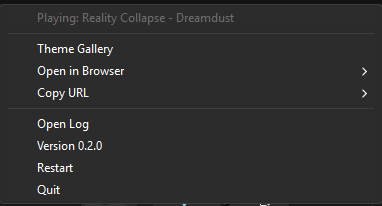
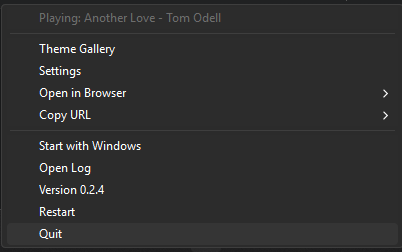
Update the README for the settings page, Start with Windows and tag filters

diff --git a/README.md b/README.md
@@ -12,10 +12,11 @@ serves the overlay as a local web page, and ships with themes, an audio equalize
 ## Features
 
 - Song title, artist, album, cover art, and a progress bar with optional elapsed / total time
-- Works with the Apple Music app for Windows and the Spotify desktop app, and follows whichever one is playing
+- Works with the Apple Music app for Windows and the Spotify desktop app, and follows whichever one is playing. Other media apps can be added in Settings
 - Live equalizer and music-reactive glows, driven by the player's audio
 - Popup mode: appears when the song changes, then fades out
-- A Theme Gallery to preview every theme, with search, filters, favorites and test backgrounds. Click a theme to see it bigger, with the exact OBS size
+- A Theme Gallery to preview every theme, with search, folder and feature filters, favorites and test backgrounds. Click a theme to see it bigger, with the exact OBS size
+- A Settings page for the equalizer, players, network and starting with Windows, with no files to edit
 - Themes are plain CSS files. Examples are included, and you can make your own ([how to make a theme](THEMES.md))
 - Runs quietly in the system tray, with a status line showing the current song
 - Written in Rust. Uses a few MB of memory and almost no CPU
@@ -42,13 +43,15 @@ To try another theme, change the address, for example, `http://localhost:5000/ov
 
 Windows may warn you ("Windows protected your PC") because the app is not code-signed. Choose **More info > Run anyway**. To avoid the warning, right-click the zip before unzipping it, choose **Properties**, tick **Unblock**, and click **OK**. The full source is in this repository. 
 
-To start the app with Windows, press Win+R, type `shell:startup`, and put a shortcut to `nowplaying.exe` in the folder that opens.
+To start the app with Windows, turn on **Start with Windows** in the tray menu or in Settings.
 
 ### Updating
 
 Quit the app from the tray, then unzip the new release to the same place as before, so its `NowPlaying` folder lands on top of your old one. Choose **Replace** when Windows asks. Your `config.toml`, `favorites.json` and custom themes are not in the zip, so they stay as they are.
 
 If you unzip into a new folder instead, copy `config.toml`, `favorites.json` and `static\themes\custom` over from the old one. If you forget `favorites.json`, open the Theme Gallery once and it copies the stars saved in your browser back into the app.
+
+If you use **Start with Windows** and move the app to a new folder, open Settings and turn it on again so it points to the new location.
 
 ### Spotify
 
@@ -58,7 +61,7 @@ In Spotify, open Settings and turn on **Show desktop overlay when using media ke
 
 Open `http://localhost:5000/gallery.html`, or left-click the tray icon, to see every theme running.
 
-- Search and filter themes by group
+- Search themes, filter by folder, and use the **Includes** row to find themes with specific features. Picking several shows only themes that have all of them
 - Click **Open** to open a theme, or **Copy URL** to paste it into OBS
 - Click a preview to enlarge it. The enlarged view shows the theme's OBS browser source size, its URL, and a scale control (1x, 1.5x, 2x) that updates both. Popup themes get a **Replay popup** button
 - Each card shows the theme's OBS size (width x height), including any room it needs for glows
@@ -71,6 +74,19 @@ Your favorites also appear in the tray menu, under **Open in Browser** and **Cop
 
 <img src="docs/enlarged-view.png" alt="Enlarged View" width="800">
 
+## Settings
+
+Right-click the tray icon and choose **Settings**, or open `http://localhost:5000/settings.html`. Changes are saved to `config.toml` as you make them, and your comments in that file are kept.
+
+- **Equalizer:** adjust the bars while watching them move to your music
+- **Players:** add or remove players. **Detected Right Now** lists the media apps Windows can see, each with an **Add** button
+- **Network:** choose who can connect, change the port, and add other names for this PC. If a change needs a restart, a **Restart Now** button appears
+- **Startup:** start Now Playing when you sign in to Windows
+
+Other devices can view this page, but settings can only be changed on the PC running Now Playing.
+
+<img src="docs/settings.png" alt="Settings page" width="800">
+
 ## The tray menu
 
 Left-click the tray icon to open the Theme Gallery. Right-click it for the menu:
@@ -81,12 +97,14 @@ Left-click the tray icon to open the Theme Gallery. Right-click it for the menu:
 |---|---|
 | Status line | Shows the current song and whether it is playing or paused. Reads "No Song Detected" when a player is open but idle, and "Application Not Running" when none is open |
 | Theme Gallery | Opens the Theme Gallery in your browser |
+| Settings | Opens the Settings page |
 | Open in Browser | Opens the overlay in one of your favorite themes |
 | Copy URL | Copies the overlay address for one of your favorite themes |
 | Copy Network URL | Only when `bind_address` lets other devices connect. Copies the overlay address with this PC's network address, for OBS on another computer | 
+| Start with Windows | Turns starting at sign-in on or off. A checkmark shows when it's on |
 | Open Log | Opens `nowplaying.log`, which helps when something isn't working |
 | Version | Shows which version you're running. Click it to see the releases page | 
-| Restart | Restarts the app. Needed after changing `port` or `bind_address` |
+| Restart | Restarts the app. Needed after changing the port or who can connect |
 | Quit | Closes the app. |
 
 Hover over the icon to see the current song.
@@ -123,6 +141,7 @@ Themes are CSS files:
 - `static/themes/examples/` holds the example themes. Each one shows off a single feature (equalizer, popup mode, time display, blurred cover background, artwork size, and so on).
 - `static/themes/styles/` holds finished styles.
 - `static/themes/game-inspired/` holds themes inspired by games.
+- `static/themes/seasonal/` holds seasonal themes.
 - `static/themes/custom/` is for your own themes. Name the file with letters, numbers, `-` and `_` only, e.g. `my-theme.css`. 
 
 To make a new group, add a folder in `static/themes/` (same naming rule as theme files, e.g. `retro-games`). It shows up in the Theme Gallery as its own section and filter after you refresh the page. No code changes needed.
@@ -133,7 +152,7 @@ A new theme file shows up in the Theme Gallery after you refresh the page. Star 
 
 ## Configuration
 
-Copy `config.example.toml` to `config.toml` (next to `nowplaying.exe`) to change settings. Every setting is optional. Changes are picked up within a couple of seconds while the app runs. `port` and `bind_address` need a **Restart** from the tray menu.
+Most settings can be changed on the [Settings](#settings) page. To edit them by hand, copy `config.example.toml` to `config.toml` (next to `nowplaying.exe`). Every setting is optional. Changes are picked up within a couple of seconds while the app runs. `port` and `bind_address` need a **Restart**.
 
 | Setting | Default | What it does |
 |---|---|---|
@@ -151,7 +170,7 @@ Copy `config.example.toml` to `config.toml` (next to `nowplaying.exe`) to change
 
 ## Tuning the equalizer
 
-Different music and volume settings can make the bars look too full or too flat. Adjust these in `config.toml` and save; the bars change within a couple of seconds. They depend on the volume inside the player app, not the Windows volume.
+Different music and volume settings can make the bars look too full or too flat. The easiest way to tune them is the **Equalizer** section in Settings, where the bars move as you drag the sliders. You can also edit these values in `config.toml`. The bars depend on the volume inside the player app, not the Windows volume.
 
 | What you see | What to change |
 |---|---|
@@ -166,10 +185,10 @@ Change one value at a time, by about 5 for the floor and ceiling and by about 0.
 ## Troubleshooting
 - **The overlay is blank.** Check that a player is playing, and look at the tray status line to see what the app detects.
 - **Spotify isn't detected.** In Spotify, turn on **Show desktop overlay when using media keys**, then restart Spotify. Make sure it's the desktop app, since the web player in a browser shows up under the browser's name.
-- **The equalizer doesn't move.** Check that `process_name` in `config.toml` matches the players' process name in Task Manager (Details tab). Restart the app after the player updates.
-- **The port is already in use.** Another program is using port 5000. Change the `port` in `config.toml`.
+- **The equalizer doesn't move.** In Settings > Players, check that the process name matches the player in Task Manager (Details tab). Restart the app after the player updates.
+- **The port is already in use.** Another program is using port 5000. Change the port in Settings > Network and click **Restart Now**. If the app can't start, change `port` in `config.toml`.
 - **A new theme isn't showing.** Refresh the Theme Gallery page. Check the file name uses only letters, numbers, `-` and `_`, and that Windows isn't hiding the extension and naming it `mytheme.css.txt`. Skipped themes are listed in `nowplaying.log`.
-- **The overlay doesn't load from another PC or phone.** Set `bind_address = "0.0.0.0"` in `config.toml`, restart the app, and use the PC's network address (see Network Note) instead of `localhost`.
+- **The overlay doesn't load from another PC or phone.** In Settings > Network, choose **Other devices on my network too**, click **Restart Now**, and use the address shown there instead of `localhost`.
 - **Something else is wrong.** Look at `nowplaying.log` next to the exe. If the app closed by itself, the previous run's log is in `nowplaying.old.log`.
 
 ## Reporting problems and ideas
@@ -191,23 +210,26 @@ Now Playing runs entirely on your PC. It doesn't send anything to the internet: 
 - `favorites.json`: your favorite themes
 - `nowplaying.log` and `nowplaying.old.log`: what the app did. They don't contain your Windows user name or song titles, but check them before posting them anywhere.
 - `static\cover.jpg`: the current song's cover, for the overlay
+- **Start with Windows**, if you turn it on, adds a `NowPlaying` entry to your Windows startup list in the registry. Turning it off removes it.
 
 The Theme Gallery also remembers your favorites and preview background in your browser.
 
 **Who can connect.** By default, only this PC. Other websites open in your browser can't read what you're playing or change anything. With `bind_address = "0.0.0.0"`, other devices on your network can view the overlay and gallery, but only this PC can change anything (see Network Note).
 
-Themes can load fonts or images from the internet if their CSS says so. The included themes don't (check before using a theme from someone else; see [THEMES.md](THEMES.md)).
+Themes can only load files from the app itself, so a theme can't contact other websites (see [THEMES.md](THEMES.md)).
+
+If a website tries to reach Now Playing, your browser may ask whether to allow access to devices on your network. Unless you trust that site and expected the request, decline it. The Settings page and gallery don't need this permission.
 
 ## Network Note
 
-By default the overlay server only accepts connections from the same PC (`bind_address = "127.0.0.1"`), so nothing else on your network can reach it. If OBS runs on another computer (a second streaming PC), or you want to open the gallery from a phone, add this to `config.toml` and restart the app: 
+By default the overlay server only accepts connections from the same PC, so nothing else on your network can reach it. If OBS runs on another computer (a second streaming PC), or you want to open the gallery from a phone, go to **Settings > Network**, choose **Other devices on my network too**, and click **Restart Now**. In `config.toml`, the same setting is:
 ```
 bind_address = "0.0.0.0"
 ```
 
-Then right-click the tray icon and use **Copy Network URL**: it copies the overlay address with your PC's network address instead of `localhost`, ready to paste into OBS on another computer. To type it yourself, run `ipconfig` in the terminal and look for **IPv4 Address** to find it, e.g. `http://192.168.1.21:5000/overlay.html`. Windows may ask to allow network access the first time: allow **Private networks**. The app does not send any data to the internet.
+Settings then shows the address to use. You can also right-click the tray icon and use **Copy Network URL**, which copies the overlay address ready to paste into OBS on another computer. To type it yourself, run `ipconfig` in the terminal and look for **IPv4 Address** to find it, e.g. `http://192.168.1.21:5000/overlay.html`. Windows may ask to allow network access the first time: allow **Private networks**. The app does not send any data to the internet.
 
-You can also use the PC's name instead of its address, e.g. `http://DESKTOP-ABC:5000/overlay.html`. If your network adds something to the name (like `desktop-abc.lan`), add it to `allowed_hosts` in `config.toml`.
+You can also use the PC's name instead of its address, e.g. `http://DESKTOP-ABC:5000/overlay.html`. If your network adds something to the name (like `desktop-abc.lan`), add it under **Other names for this PC** in Settings.
 
 ## Building from Source
 
@@ -217,7 +239,7 @@ You need [Rust](https://rustup.rs) (a recent version: the project uses the 2024 
 cargo build --release
 ```
 
-The program is created at `target\release\nowplaying.exe`. It needs the `static` folder and `icon.ico`, and finds them in the project folder. To make a release zip yourself run `package.ps1`.
+The program is created at `target\release\nowplaying.exe`. It needs the `static` folder and `icon.ico`, and finds them in the project folder. **Start with Windows** only works from a packaged copy, which has `static` next to the exe. To make a release zip yourself, run `package.ps1`.
 
 ## Credit and License
 
